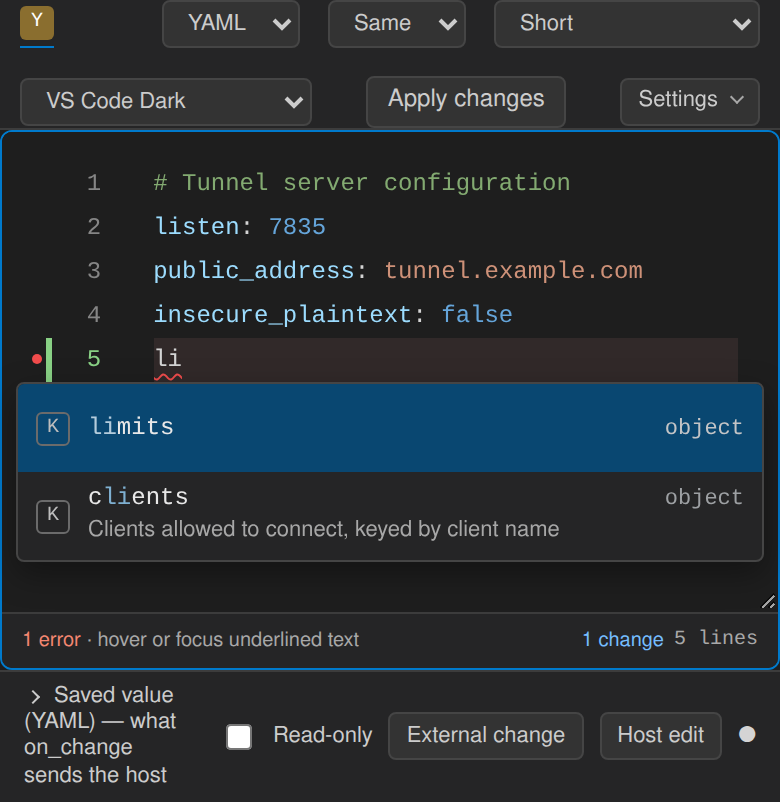
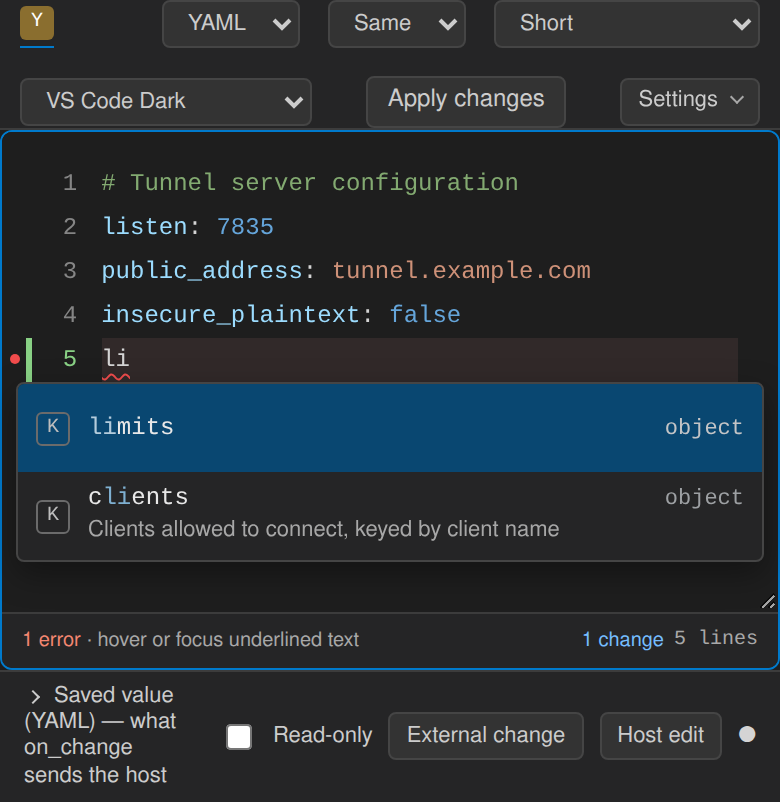
Tighten the gutter in an editor under 480 px wide, keeping 24 px touch targets

Changed region(s): [[0.0923, 0.2182, 0.8308, 0.4052], [0.0, 0.4052, 0.2462, 0.4676], [0.0615, 0.2182, 0.1538, 0.2494]]

diff --git a/crates/config-editor-leptos/preset.css b/crates/config-editor-leptos/preset.css
@@ -507,6 +507,9 @@
   display: flex;
   background: var(--config-editor-bg);
   overflow: hidden;
+  /* Its width (the editor's, not the window's: a host may place it in a
+     narrow column) narrows the gutter (see the gutter). */
+  container: config-editor-surface / inline-size;
 }
 
 /* Above the text layers, opaque: code scrolled sideways passes under it. */
@@ -2218,6 +2221,47 @@
   position: absolute;
   inset: calc((1lh - max(24px, 1lh)) / 2) 0;
   content: "";
+}
+
+/* A narrow editor (a phone) keeps its width for the text: the gutter is
+   about 50px instead of 76px. The markers share a smaller column (the lock
+   or key, then the change bar at the column's edge; a problem dot beside a
+   lock moves to its corner), and the chevrons' column is only as wide as
+   the chevron. Each hit area stays 24px: a bar's
+   reaches over the start of the number's column, a chevron's over its end,
+   so on a line that folds, a tap on its number folds it (the number still
+   selects the line on every other line, and by a drag). */
+@container config-editor-surface (max-width: 480px) {
+  :not(#\#):not(#\#) .config-editor__gutter {
+    --config-editor-marker-column: 16px;
+    --config-editor-gutter-padding: 6px;
+  }
+  :not(#\#):not(#\#) .config-editor__gutter.config-editor__gutter-folding {
+    --config-editor-fold-gutter: 10px;
+    --config-editor-gutter-padding: 2px;
+  }
+  :not(#\#):not(#\#) .config-editor__lock-marker,
+  :not(#\#):not(#\#) .config-editor__secret-marker {
+    left: calc(var(--config-editor-marker-column) - 13px);
+  }
+  :not(#\#):not(#\#) .config-editor__line-number-error::before { left: calc(var(--config-editor-marker-column) - 12px); }
+  :not(#\#):not(#\#) .config-editor__line-number-error:has(.config-editor__lock-marker, .config-editor__secret-marker)::before {
+    top: 1px;
+    left: calc(var(--config-editor-marker-column) - 9px);
+  }
+  :not(#\#):not(#\#) .config-editor__diff-marker { left: calc(var(--config-editor-marker-column) - 4px); }
+  :not(#\#):not(#\#) .config-editor__diff-marker-added::after,
+  :not(#\#):not(#\#) .config-editor__diff-marker-modified::after {
+    right: calc(var(--config-editor-marker-column) - 25px);
+    left: calc(4px - var(--config-editor-marker-column));
+  }
+  :not(#\#):not(#\#) .config-editor__diff-deleted { left: calc(var(--config-editor-marker-column) - 10px); }
+  :not(#\#):not(#\#) .config-editor__diff-deleted::after {
+    left: calc(10px - var(--config-editor-marker-column));
+    width: 24px;
+  }
+  :not(#\#):not(#\#) .config-editor__fold-toggle { width: 24px; }
+  :not(#\#):not(#\#) .config-editor__fold-toggle::before { left: 14px; }
 }
 
 /* The footer's and the notices' buttons too (their rows have the room). */

diff --git a/crates/config-editor-leptos/src/css/base.css b/crates/config-editor-leptos/src/css/base.css
@@ -507,6 +507,9 @@
   display: flex;
   background: var(--config-editor-bg);
   overflow: hidden;
+  /* Its width (the editor's, not the window's: a host may place it in a
+     narrow column) narrows the gutter (see the gutter). */
+  container: config-editor-surface / inline-size;
 }
 
 /* Above the text layers, opaque: code scrolled sideways passes under it. */
@@ -2218,6 +2221,47 @@
   position: absolute;
   inset: calc((1lh - max(24px, 1lh)) / 2) 0;
   content: "";
+}
+
+/* A narrow editor (a phone) keeps its width for the text: the gutter is
+   about 50px instead of 76px. The markers share a smaller column (the lock
+   or key, then the change bar at the column's edge; a problem dot beside a
+   lock moves to its corner), and the chevrons' column is only as wide as
+   the chevron. Each hit area stays 24px: a bar's
+   reaches over the start of the number's column, a chevron's over its end,
+   so on a line that folds, a tap on its number folds it (the number still
+   selects the line on every other line, and by a drag). */
+@container config-editor-surface (max-width: 480px) {
+  :not(#\#):not(#\#) .config-editor__gutter {
+    --config-editor-marker-column: 16px;
+    --config-editor-gutter-padding: 6px;
+  }
+  :not(#\#):not(#\#) .config-editor__gutter.config-editor__gutter-folding {
+    --config-editor-fold-gutter: 10px;
+    --config-editor-gutter-padding: 2px;
+  }
+  :not(#\#):not(#\#) .config-editor__lock-marker,
+  :not(#\#):not(#\#) .config-editor__secret-marker {
+    left: calc(var(--config-editor-marker-column) - 13px);
+  }
+  :not(#\#):not(#\#) .config-editor__line-number-error::before { left: calc(var(--config-editor-marker-column) - 12px); }
+  :not(#\#):not(#\#) .config-editor__line-number-error:has(.config-editor__lock-marker, .config-editor__secret-marker)::before {
+    top: 1px;
+    left: calc(var(--config-editor-marker-column) - 9px);
+  }
+  :not(#\#):not(#\#) .config-editor__diff-marker { left: calc(var(--config-editor-marker-column) - 4px); }
+  :not(#\#):not(#\#) .config-editor__diff-marker-added::after,
+  :not(#\#):not(#\#) .config-editor__diff-marker-modified::after {
+    right: calc(var(--config-editor-marker-column) - 25px);
+    left: calc(4px - var(--config-editor-marker-column));
+  }
+  :not(#\#):not(#\#) .config-editor__diff-deleted { left: calc(var(--config-editor-marker-column) - 10px); }
+  :not(#\#):not(#\#) .config-editor__diff-deleted::after {
+    left: calc(10px - var(--config-editor-marker-column));
+    width: 24px;
+  }
+  :not(#\#):not(#\#) .config-editor__fold-toggle { width: 24px; }
+  :not(#\#):not(#\#) .config-editor__fold-toggle::before { left: 14px; }
 }
 
 /* The footer's and the notices' buttons too (their rows have the room). */

diff --git a/js/config-editor/preset.css b/js/config-editor/preset.css
@@ -507,6 +507,9 @@
   display: flex;
   background: var(--config-editor-bg);
   overflow: hidden;
+  /* Its width (the editor's, not the window's: a host may place it in a
+     narrow column) narrows the gutter (see the gutter). */
+  container: config-editor-surface / inline-size;
 }
 
 /* Above the text layers, opaque: code scrolled sideways passes under it. */
@@ -2218,6 +2221,47 @@
   position: absolute;
   inset: calc((1lh - max(24px, 1lh)) / 2) 0;
   content: "";
+}
+
+/* A narrow editor (a phone) keeps its width for the text: the gutter is
+   about 50px instead of 76px. The markers share a smaller column (the lock
+   or key, then the change bar at the column's edge; a problem dot beside a
+   lock moves to its corner), and the chevrons' column is only as wide as
+   the chevron. Each hit area stays 24px: a bar's
+   reaches over the start of the number's column, a chevron's over its end,
+   so on a line that folds, a tap on its number folds it (the number still
+   selects the line on every other line, and by a drag). */
+@container config-editor-surface (max-width: 480px) {
+  :not(#\#):not(#\#) .config-editor__gutter {
+    --config-editor-marker-column: 16px;
+    --config-editor-gutter-padding: 6px;
+  }
+  :not(#\#):not(#\#) .config-editor__gutter.config-editor__gutter-folding {
+    --config-editor-fold-gutter: 10px;
+    --config-editor-gutter-padding: 2px;
+  }
+  :not(#\#):not(#\#) .config-editor__lock-marker,
+  :not(#\#):not(#\#) .config-editor__secret-marker {
+    left: calc(var(--config-editor-marker-column) - 13px);
+  }
+  :not(#\#):not(#\#) .config-editor__line-number-error::before { left: calc(var(--config-editor-marker-column) - 12px); }
+  :not(#\#):not(#\#) .config-editor__line-number-error:has(.config-editor__lock-marker, .config-editor__secret-marker)::before {
+    top: 1px;
+    left: calc(var(--config-editor-marker-column) - 9px);
+  }
+  :not(#\#):not(#\#) .config-editor__diff-marker { left: calc(var(--config-editor-marker-column) - 4px); }
+  :not(#\#):not(#\#) .config-editor__diff-marker-added::after,
+  :not(#\#):not(#\#) .config-editor__diff-marker-modified::after {
+    right: calc(var(--config-editor-marker-column) - 25px);
+    left: calc(4px - var(--config-editor-marker-column));
+  }
+  :not(#\#):not(#\#) .config-editor__diff-deleted { left: calc(var(--config-editor-marker-column) - 10px); }
+  :not(#\#):not(#\#) .config-editor__diff-deleted::after {
+    left: calc(10px - var(--config-editor-marker-column));
+    width: 24px;
+  }
+  :not(#\#):not(#\#) .config-editor__fold-toggle { width: 24px; }
+  :not(#\#):not(#\#) .config-editor__fold-toggle::before { left: 14px; }
 }
 
 /* The footer's and the notices' buttons too (their rows have the room). */

diff --git a/CHANGELOG.md b/CHANGELOG.md
@@ -7,6 +7,15 @@ versions move together.
 
 ## 0.2.4 — 2026-11-23
 
+### Changed
+
+- A narrow editor (under 480px wide, as on a phone or in a narrow column
+  of a page; the editor's own width counts, not the window's) has a
+  narrower gutter, about 50px instead of 76px, so more of each line
+  shows. The markers share a smaller column and the fold chevrons' column
+  is as wide as the chevron; each control keeps its 24px hit area, so on
+  a line that folds a tap on the line number folds it.
+
 ### Fixed
 
 - A host's own change (`applyChanges`) made while the save is held (a key
